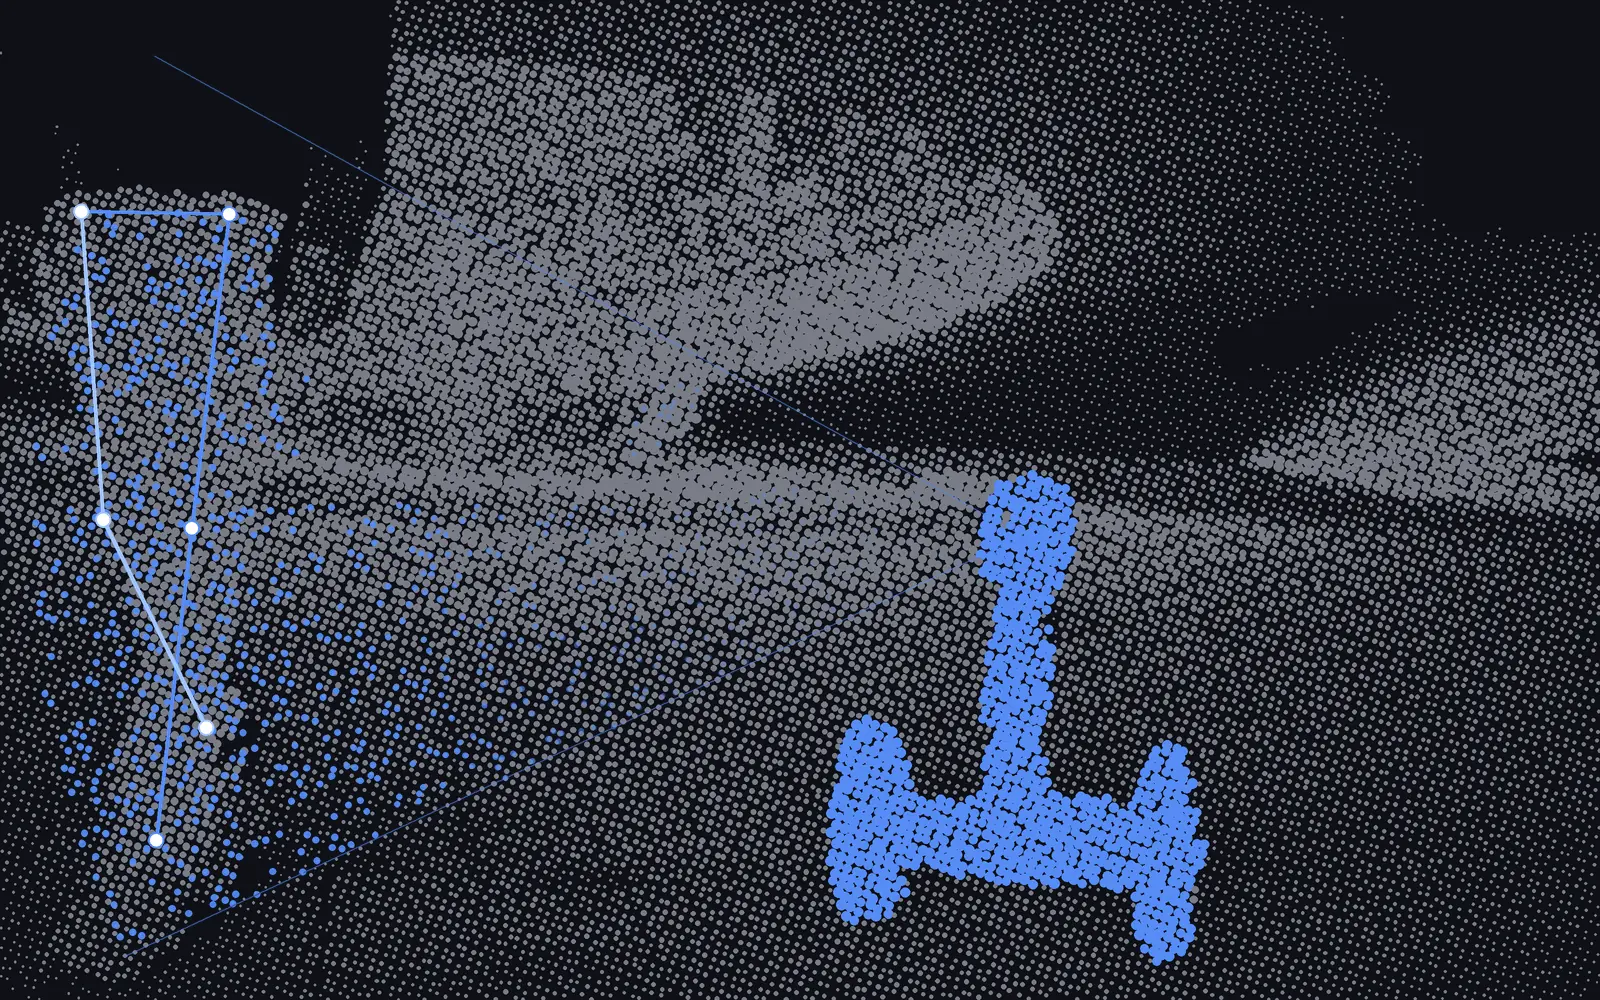
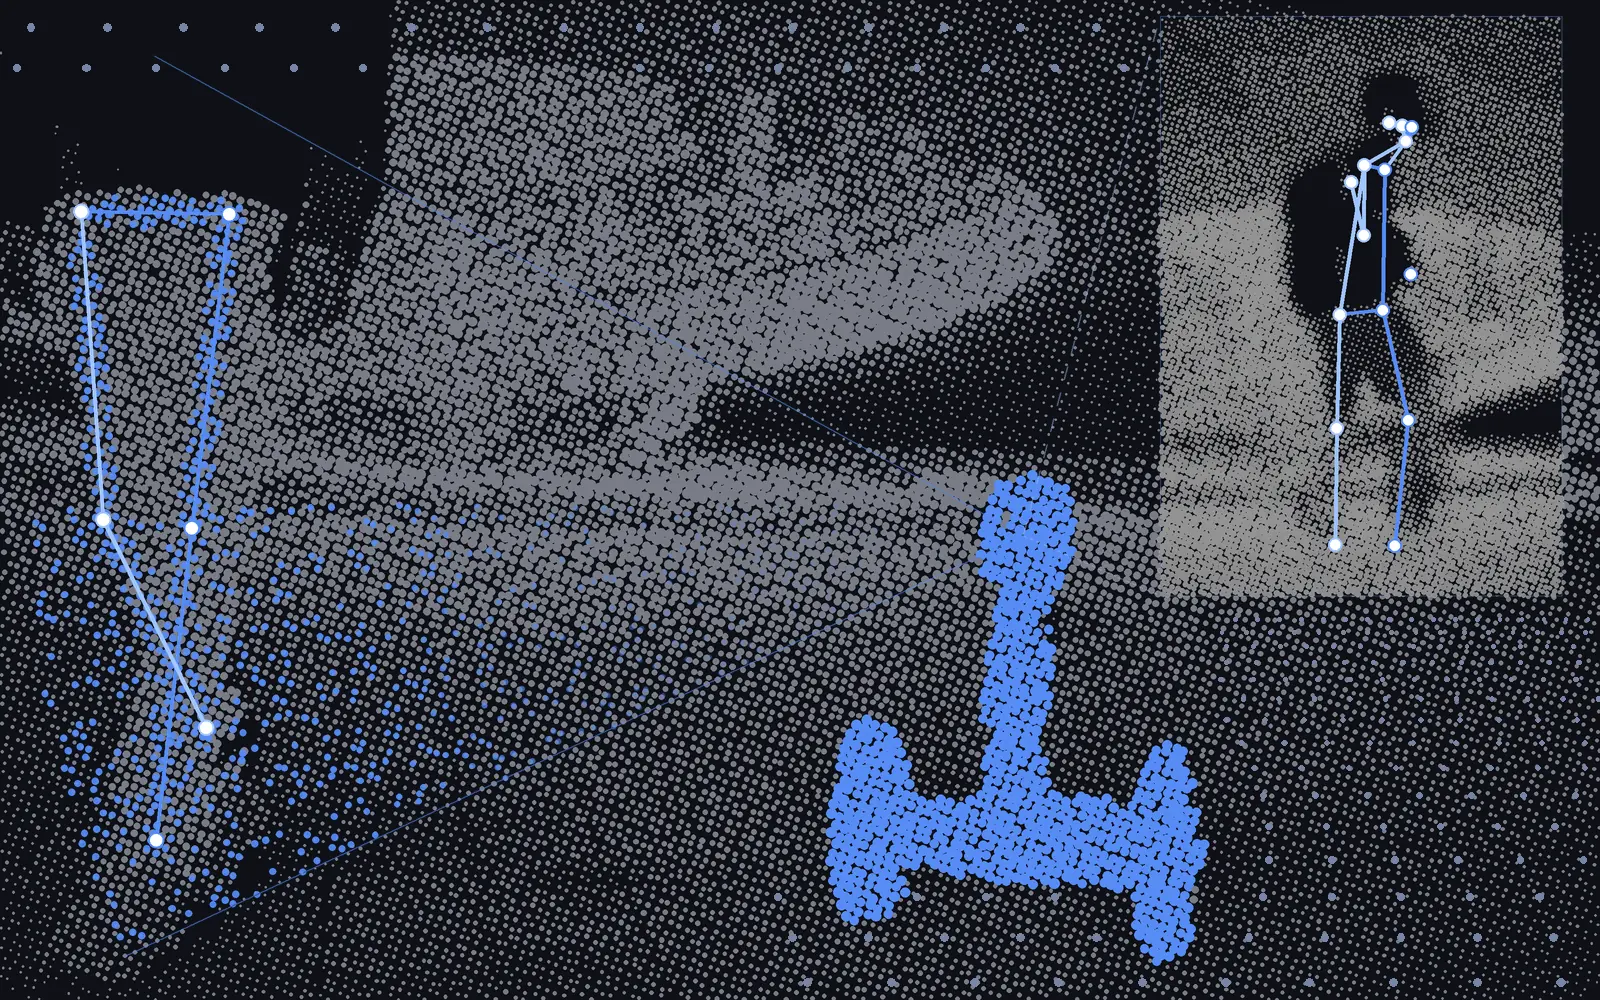
Robotics picture: Loomo pose B (owner's tap), legs real, full-body panel from the project's video, credit and alt updated

Changed region(s): [[0.7188, 0.0, 1.0, 0.62], [0.0312, 0.186, 0.1875, 0.744], [0.0938, 0.775, 0.125, 0.868]]

diff --git a/scripts/make-loomo-pose.py b/scripts/make-loomo-pose.py
@@ -1,18 +1,18 @@
 #!/usr/bin/env python3
-"""Pose B v2, an alternative Loomo figure (not shipped; the release uses
-scripts/make-loomo-overlay.py). The full-frame halftone of
+"""Pose B v3, the homepage Robotics figure (pose C, scripts/make-loomo-overlay.py,
+is the earlier one). The full-frame halftone of
 make-photo-plates.py loomo('wide') edge to edge, with
-  - the real walking legs AND forearms (hips, knees, ankles, elbows, wrists with
-    score > 2; no shoulders, the follow clip has none in frame) drawn as limbs
-    with joint dots, and light dots along those limbs instead of a lit mask;
+  - the real walking legs (hips, knees, ankles with score > 2; the follow clip
+    has no upper body in frame) drawn as limbs with joint dots, and light dots
+    along those limbs instead of a lit mask;
   - a drawn depth cone from Loomo's head toward the legs with a near-to-far sweep;
-  - a "what Loomo sees" panel with the full 17-point skeleton, and a faint
+  - an input-view panel with the full 17-point skeleton, and a faint
     frustum from Loomo's head to it.
 Host tooling (numpy, Pillow, opencv, ffmpeg); needs scripts/assets/loomo/inset-pose.json
-(scripts/make-loomo-inset-pose.py). Writes loomo-pose-b2.webp (1600x1000) and
-loomo-pose-b2-anim.webp (576x360) to ~/Perso/site-review/files.
+(scripts/make-loomo-inset-pose.py). Writes loomo-pose.webp (1600x1000) and
+loomo-pose-anim.webp (576x360) to ~/Perso/site-review/files (--out public/projects/autonomous-mobile-robot for the site).
 
-    python3 scripts/make-loomo-pose-b2.py [--out DIR] [--q N] [--preview]
+    python3 scripts/make-loomo-pose.py [--out DIR] [--q N]
 
 REAL
   Base photo, mapping and leg and forearm keypoints: as in make-loomo-overlay.py
@@ -29,6 +29,7 @@ REAL
   (scripts/assets/loomo/inset-pose.json), smoothed over 3 frames; only keypoints
   with score > 2 are drawn. PifPaf is only the drawing style, not the model.
 DRAWN
+  The perspective lattice of dots on the empty floor and top band (fill_planes).
   The depth view (Intel RealSense ZR300 active-IR stereo camera; the Loomo has no
   lidar; we have no depth frame from the robot): the cone, the sweep, the lit
   dots on the floor and along the limbs, and the frustum to the panel. The base
@@ -279,21 +280,11 @@ def main():
     out.mkdir(parents=True, exist_ok=True)
     frames_out = [draw(f, f / N, f) for f in range(N)]
     still = draw(IDX.index(REF), 0.8, 19)
-    still.save(out / "loomo-pose-b2.webp", "WEBP", quality=72, method=6)
+    still.save(out / "loomo-pose.webp", "WEBP", quality=72, method=6)
     loop = [im.resize((576, 360), Image.LANCZOS) for im in frames_out]
-    loop[0].save(out / "loomo-pose-b2-anim.webp", "WEBP", save_all=True, append_images=loop[1:], duration=80, loop=0, quality=q, method=6)
-    for nme in ("loomo-pose-b2.webp", "loomo-pose-b2-anim.webp"):
+    loop[0].save(out / "loomo-pose-anim.webp", "WEBP", save_all=True, append_images=loop[1:], duration=80, loop=0, quality=q, method=6)
+    for nme in ("loomo-pose.webp", "loomo-pose-anim.webp"):
         print(nme, (out / nme).stat().st_size)
-    if "--preview" in sys.argv:
-        sheet = Image.new("RGB", (1600, 1100), A.BG)
-        sheet.paste(Image.open(ROOT / "public/projects/autonomous-mobile-robot/loomo-pose.webp").convert("RGB").resize((533, 333)), (0, 0))
-        sheet.paste(Image.open(out / "loomo-pose-b.webp").convert("RGB").resize((533, 333)), (533, 0))
-        sheet.paste(still.resize((533, 333)), (1066, 0))
-        for qn, fi in enumerate((5, 12, 19)):
-            sheet.paste(frames_out[fi].resize((533, 333)), (qn * 533, 340))
-        sheet.paste(still.resize((390, 244)), (0, 700))
-        sheet.save(Path.home() / "Perso/site-review/files/loomo-anim-20.png")
-
 
 if __name__ == "__main__":
     main()

diff --git a/src/content/projects/autonomous-mobile-robot.md b/src/content/projects/autonomous-mobile-robot.md
@@ -52,4 +52,4 @@ The framework was adapted to help paraplegic patients walk, with the Loomo as an
 
 ## Picture credit
 
-The homepage picture is made from frames of the project's own video of the Loomo following a person. The legs are real: the hips, knees and ankles that torchvision's Keypoint R-CNN found on those frames, drawn in the style of EPFL VITA Lab's OpenPifPaf, which did not produce them. The depth view is drawn: the Loomo senses depth with an Intel RealSense stereo camera, but we have no depth frame from the robot, so the cone, the sweep and the lit points are an illustration.
+The homepage picture is made from frames of the project's own video of the Loomo following a person. The legs are real: the hips, knees and ankles that torchvision's Keypoint R-CNN found on those frames, drawn in the style of EPFL VITA Lab's OpenPifPaf, which did not produce them. The panel at the top right comes from a later part of the same video, a screen recording of the project's pose pipeline: its input view, with the full-body keypoints that the same model found on it. The depth view is drawn: the Loomo senses depth with an Intel RealSense stereo camera, but we have no depth frame from the robot, so the cone, the sweep, the lit points and the grid of dots on the floor are an illustration.
